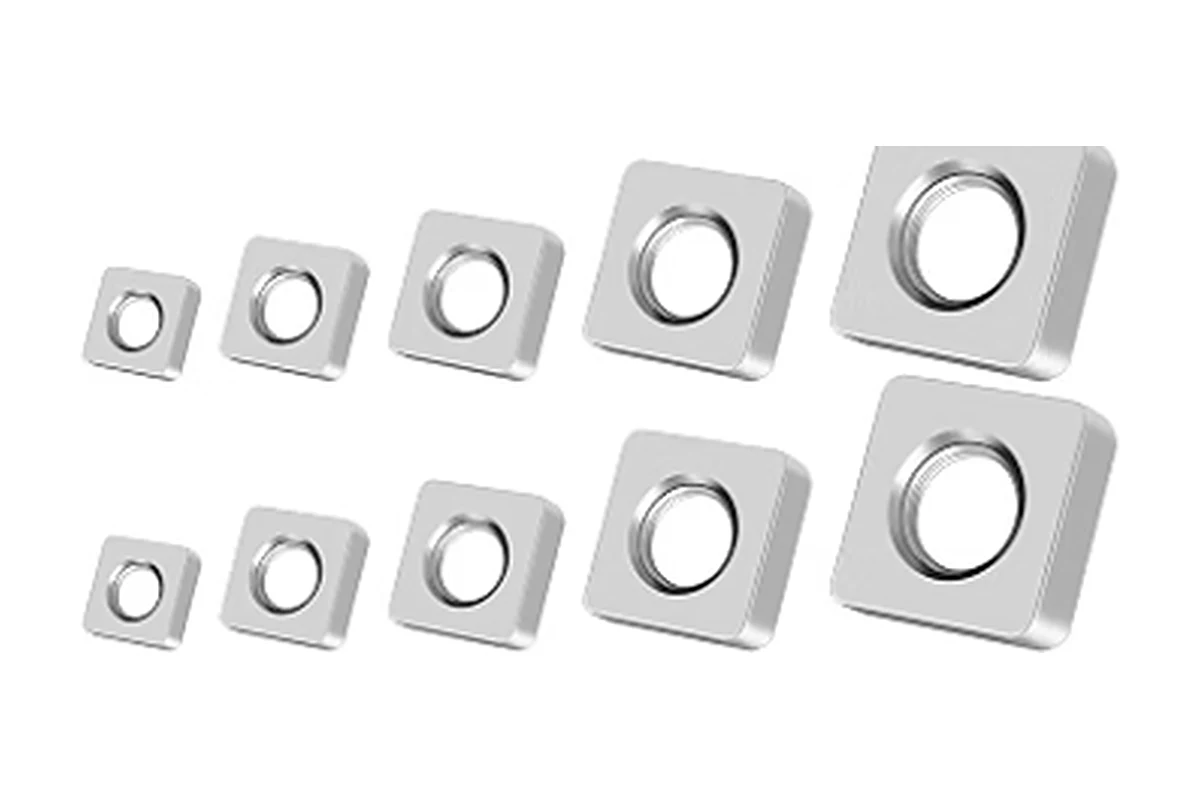
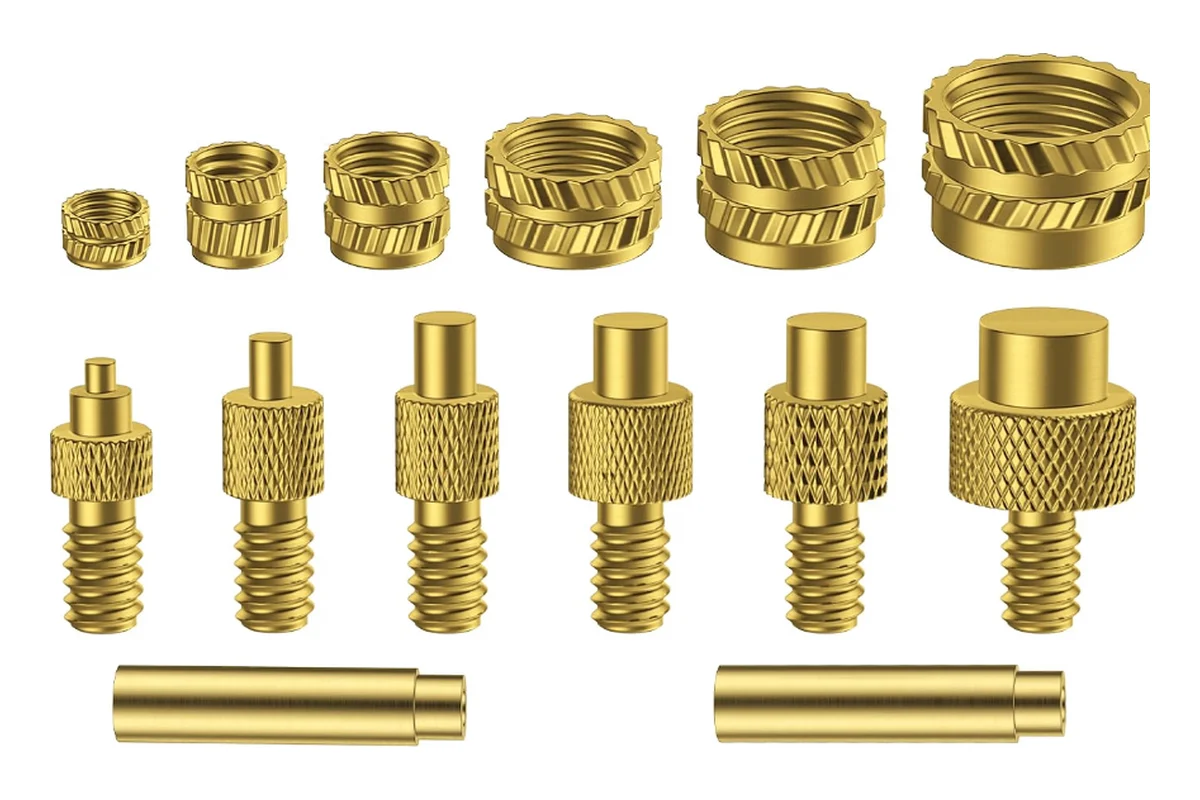
Inserts post: brass insert cover; square nuts move inline
Claude-Session: https://claude.ai/code/session_0146ajwnrbA5r55xWrKVv2mz

diff --git a/content/posts/heat-set-inserts-vs-printed-threads-vs-captive-nuts.md b/content/posts/heat-set-inserts-vs-printed-threads-vs-captive-nuts.md
@@ -7,7 +7,7 @@ categories: ["Guides"]
 tags: ["heat set inserts", "fasteners", "design for 3d printing", "functional parts"]
 cover:
   image: "/images/heat-set-inserts-vs-printed-threads-vs-captive-nuts-cover.webp"
-  alt: "Stainless steel square nuts in increasing sizes, from M3 up"
+  alt: "Brass heat-set threaded inserts in several sizes with matching heat-set soldering iron tips"
   caption: ""
   relative: false
 draft: false
@@ -58,6 +58,8 @@ Often yes, on raw holding force, because a nut bears on a broad face instead of 
 The catch is load direction relative to layers, and this is my own reasoning from how FDM parts fail. If the nut pulls up against a few bridged roof layers, you are loading layer adhesion in tension, which is the weak axis. If you orient the part so the nut bears against a vertical wall of continuous perimeters, the load runs in-plane and the joint is much better. Pick the pocket orientation with that in mind.
 
 For the pocket, nominal M3 nut dimensions are 5.5 mm across flats and 2.4 mm thick. Add clearance for your printer, and print a test strip first. For a closed pocket, you can pause the print and drop the nut in, but that introduces defect risk. A side-loading slot avoids this.
+
+![Stainless steel square nuts in increasing sizes](/images/m3-square-nuts-sizes.webp)
 
 Square nuts are often the better choice for those slots. A DIN 562 M3 square nut is 5.5 mm across and only 1.8 mm thick, so the slot stays shallow. Its flat sides also keep it from spinning, and it slides in along the slot without having to line up a hex point. That's why many printer designs, including Prusa's, use them. A [100-pack of M3 DIN 562 stainless square nuts](https://www.amazon.com/dp/B07G9TTZDB?tag=mizubikes-web-20) is cheap enough to keep on hand. Size the slot about 0.2 to 0.3 mm over the nut's width and thickness, then test-fit on your printer.
 
